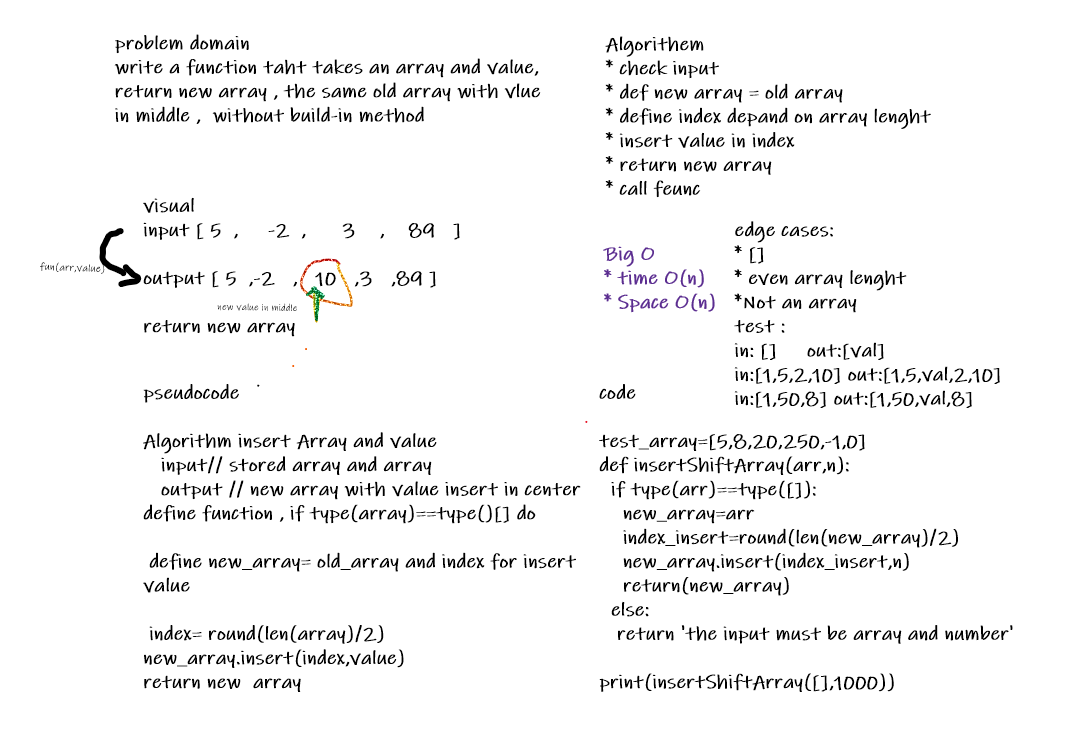
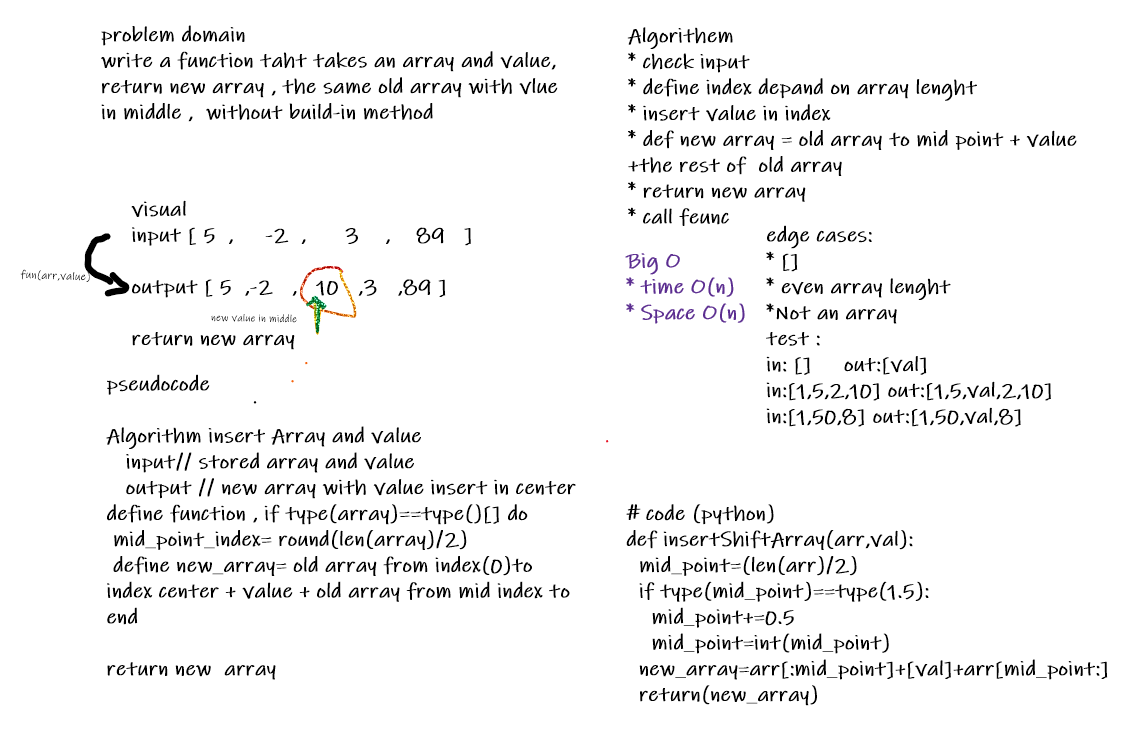
finish CC2 without code challenge

diff --git a/data_structures_and_algorithms/array-shift/array-shift.md b/data_structures_and_algorithms/array-shift/array-shift.md
@@ -9,5 +9,5 @@ Write a function called insertShiftArray which takes in an array and a value to 
 ## Approach & Efficiency
 <!-- What approach did you take?
  Discuss Why. What is the Big O space/time for this approach? -->
-check input type ,  assign new array , select middle index  , insert value in select index  , return new array 
-select the edge cases and try code with it 
+check input type  , select middle index  ,  assign new array , insert value to mid point , add value  , insert the rest of array   , return new array 
+select the edge cases and test code with it 
